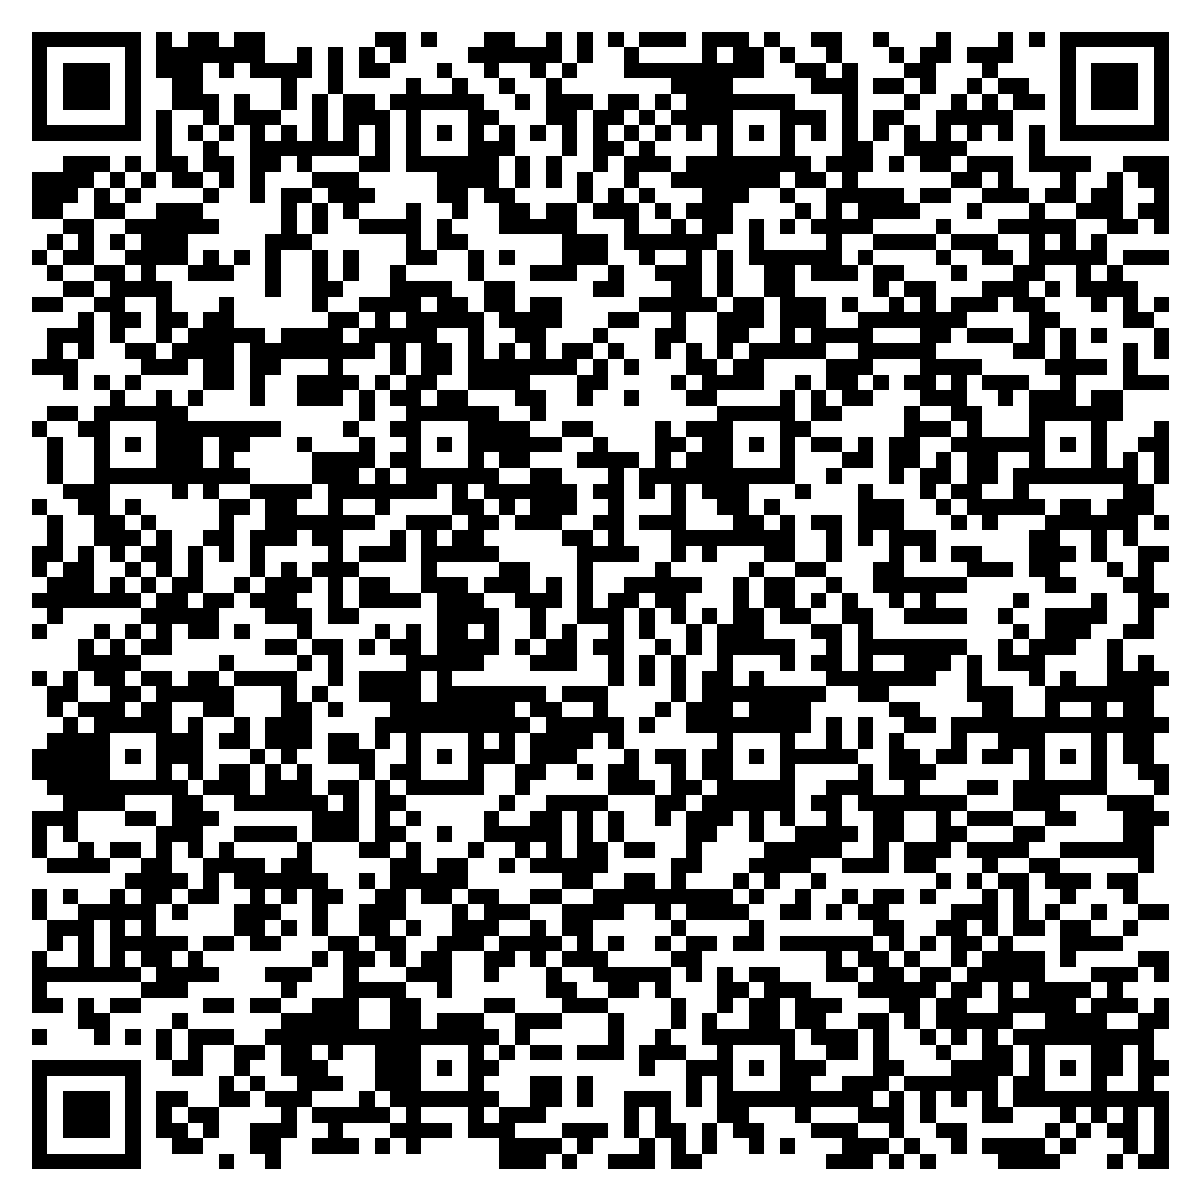
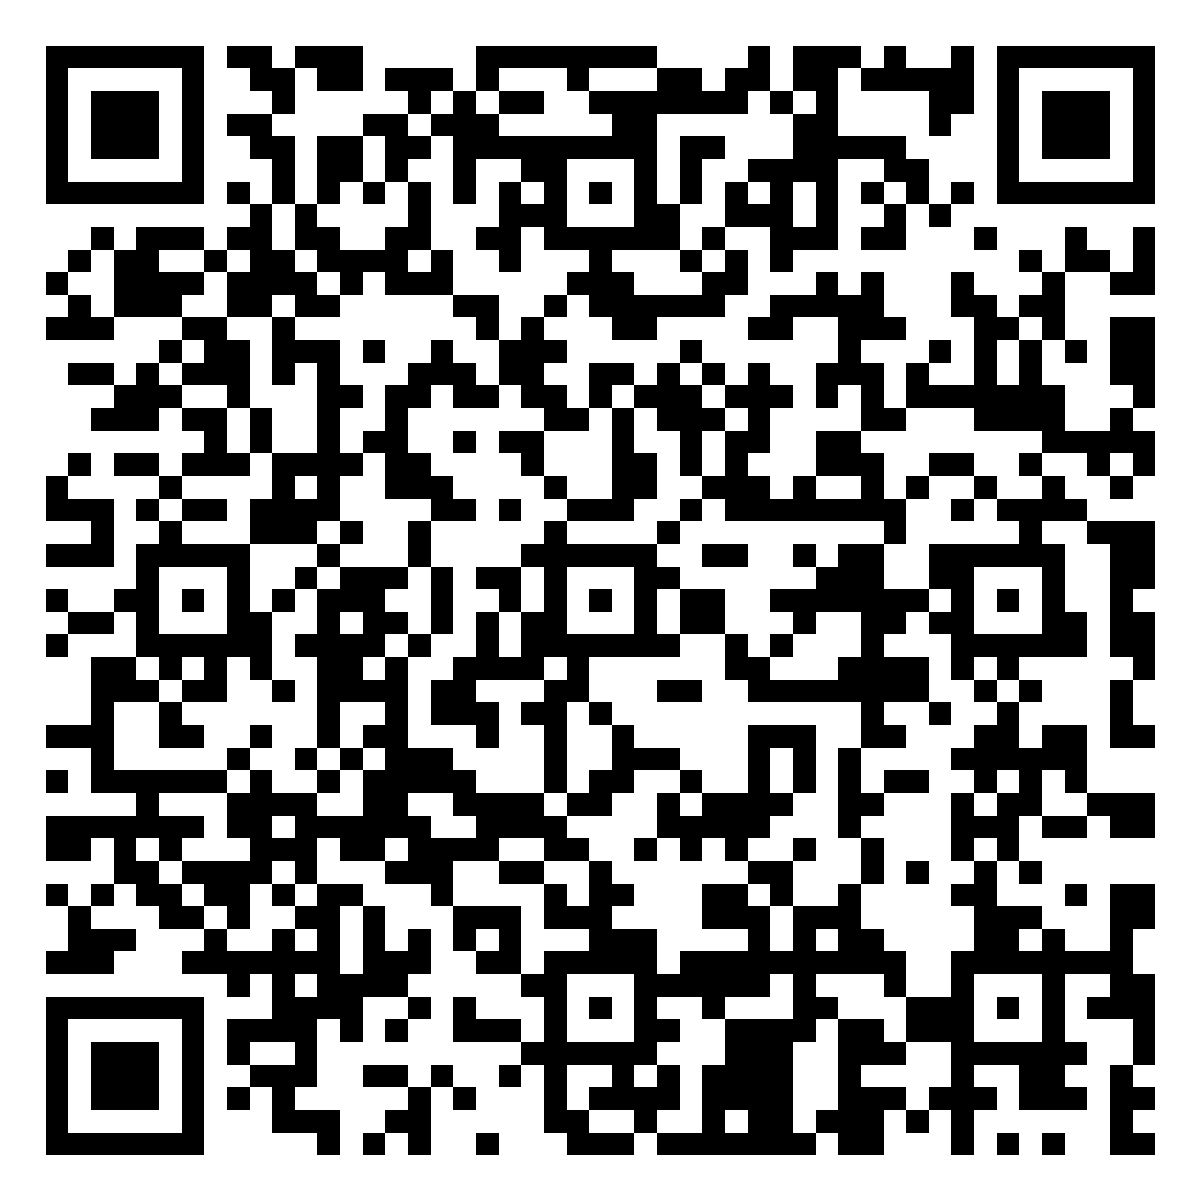
feat: use official search.google.com/local/writereview placeid link for mobile 5-star direct popup

diff --git a/frontend/src/components/GoogleReviewModal.tsx b/frontend/src/components/GoogleReviewModal.tsx
@@ -19,7 +19,7 @@ interface GoogleReviewModalProps {
 }
 
 export const EXACT_GOOGLE_MAPS_REVIEW_URL =
-  'https://www.google.com/search?q=%E0%B9%82%E0%B8%95%E0%B9%8A%E0%B8%B0%E0%B8%88%E0%B8%B5%E0%B8%99+%E0%B8%A3%E0%B8%9E%E0%B8%B5%E0%B8%9E%E0%B8%B1%E0%B8%92%E0%B8%99%E0%B9%8C#lrd=0x30e2e560007bdda1:0xa22e275fdbe6507f,3,,,,';
+  'https://search.google.com/local/writereview?placeid=ChIJod17AGDl4jB_UObbXycuog';
 
 export const DEFAULT_GOOGLE_REVIEW_URL = EXACT_GOOGLE_MAPS_REVIEW_URL;
 export const GOOGLE_MAPS_DIRECT_URL = EXACT_GOOGLE_MAPS_REVIEW_URL;
